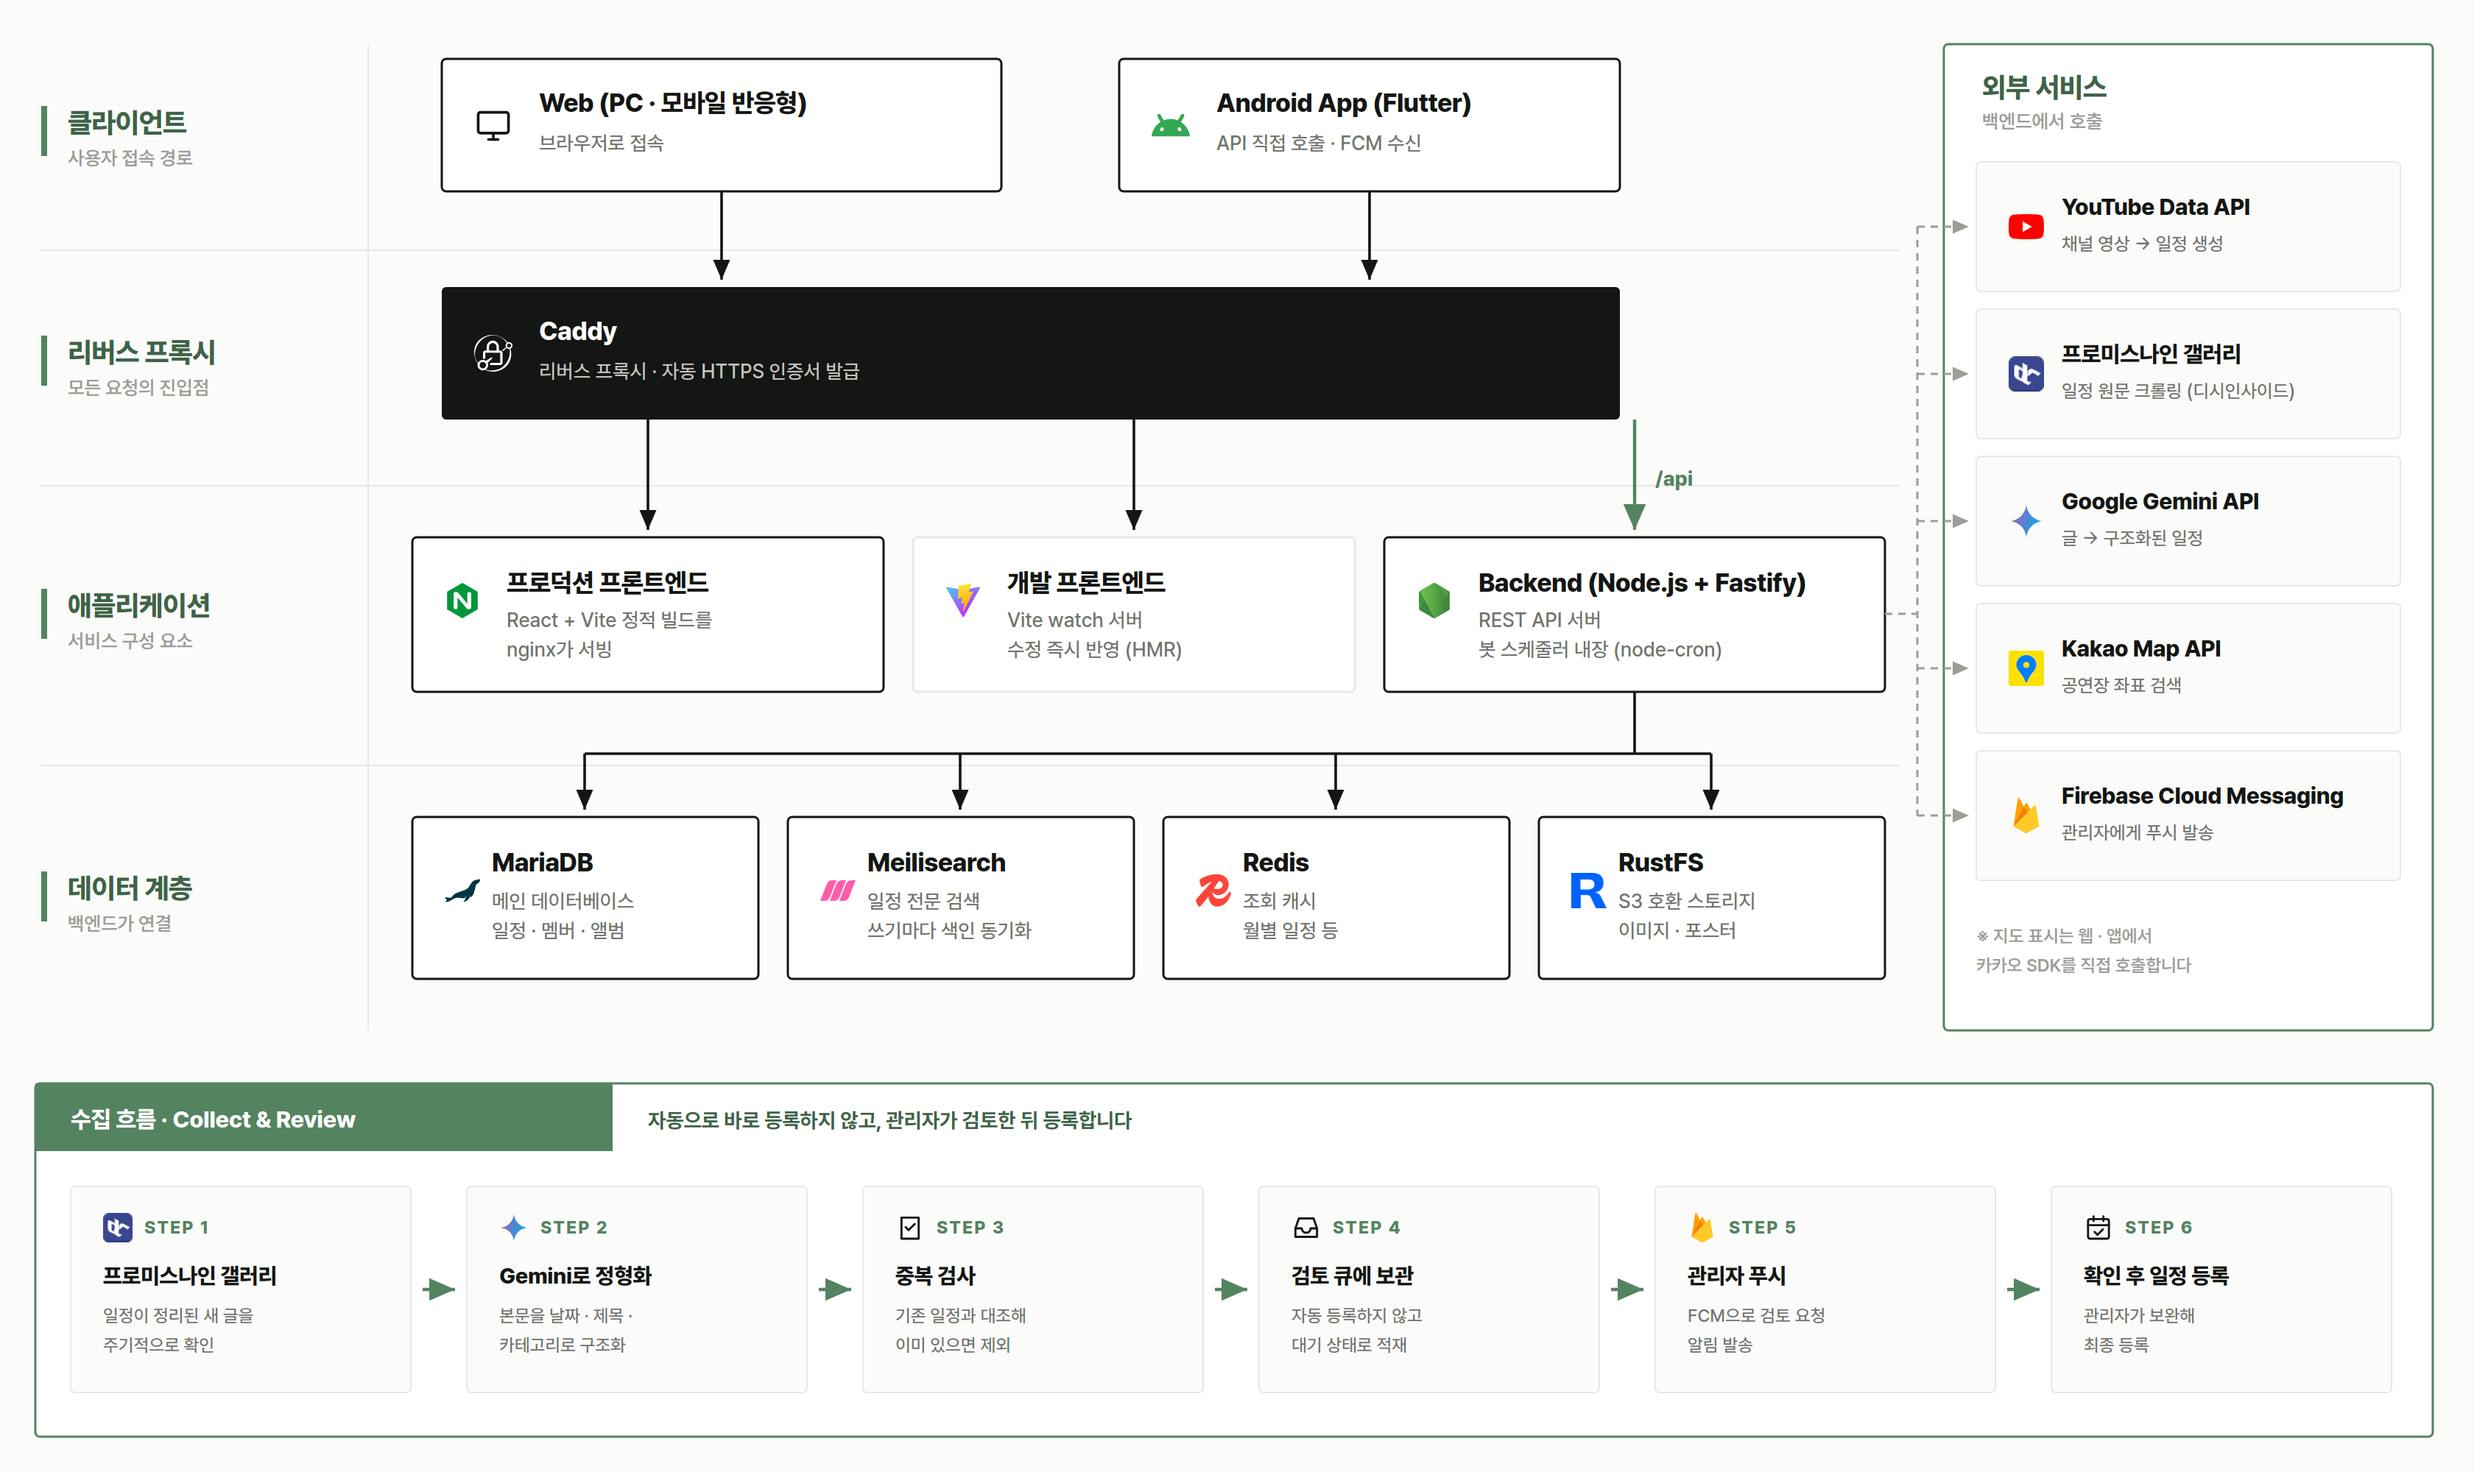
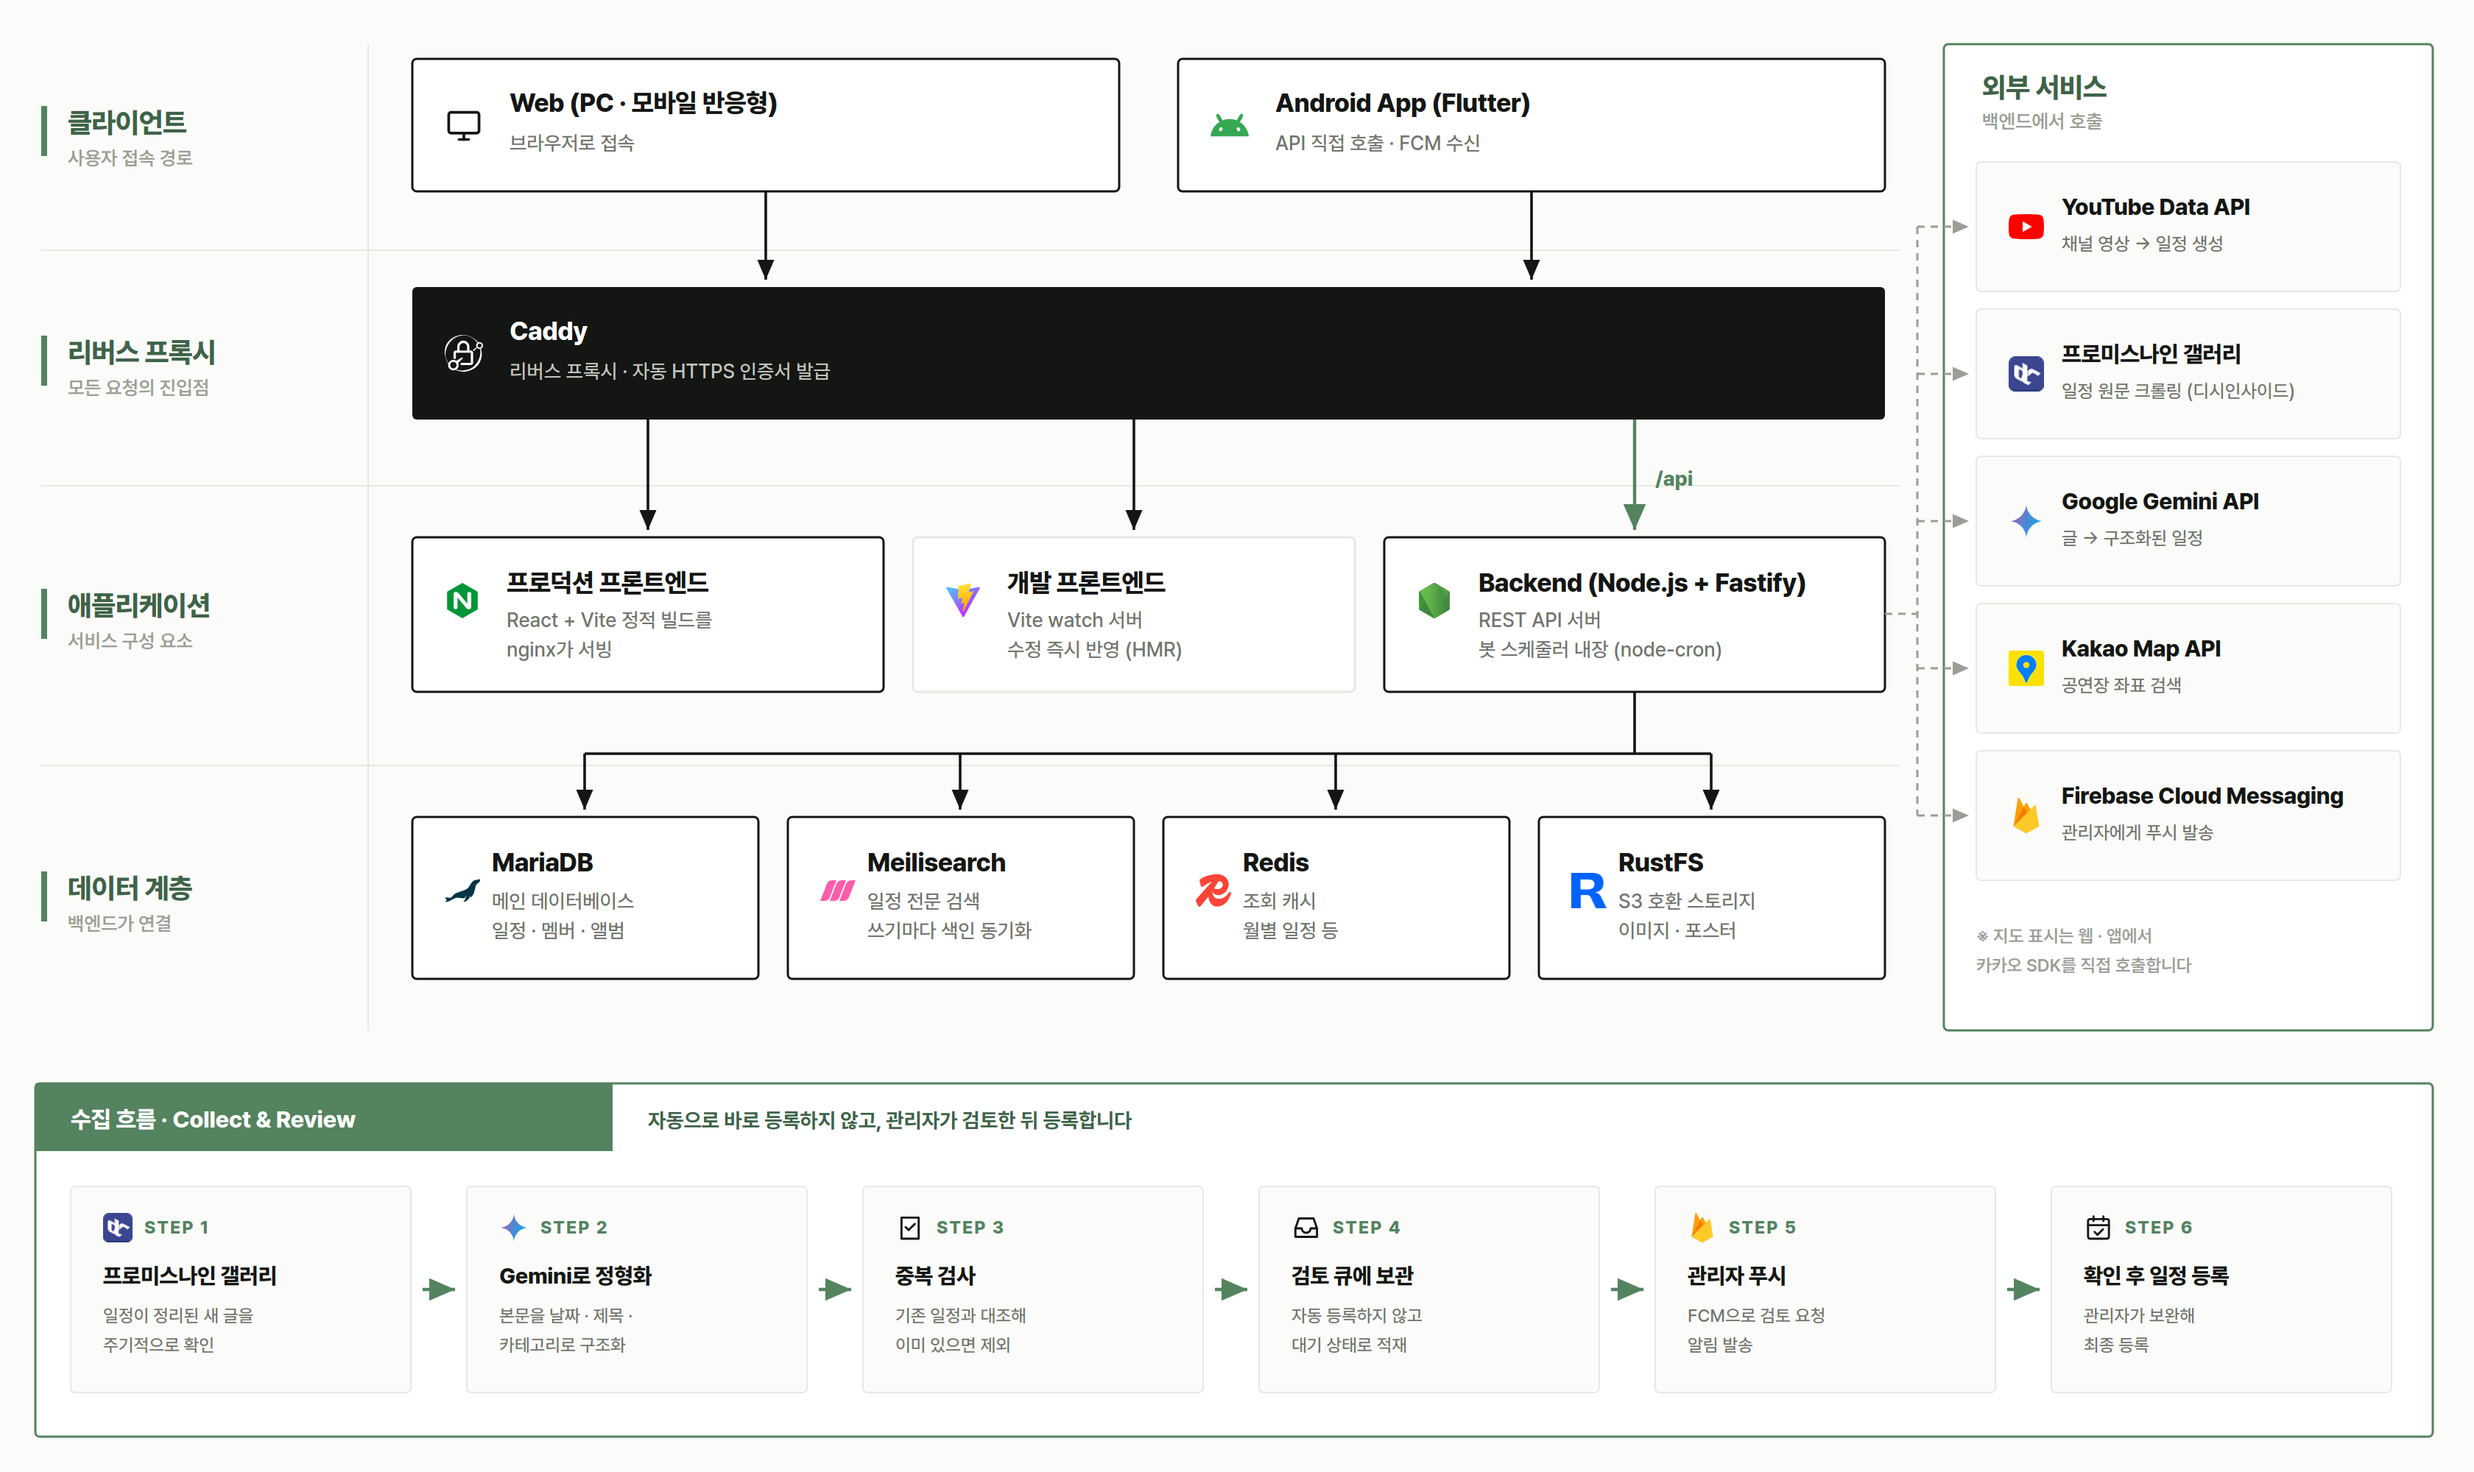
docs: 구조도 레이아웃 정렬 — 모든 밴드를 동일 그리드로
클라이언트·리버스 프록시 밴드가 애플리케이션·데이터 계층과 좌우 끝이 어긋나 있었고,
Caddy 박스가 짧아 /api 화살표가 박스 바깥 빈 공간에서 시작하던 문제.
전 밴드를 x 280~1280 그리드로 통일해 /api가 Caddy 내부에서 분기하도록 수정.

Claude-Session: https://claude.ai/code/session_011K1GDZufi9XzbNZSQFJ7js

diff --git a/docs/images/architecture.html b/docs/images/architecture.html
@@ -93,18 +93,18 @@
   <rect x="28" y="592" width="4" height="34" fill="#548360"/>
   <text class="band-label" x="46" y="610">데이터 계층</text>
   <text class="band-sub" x="46" y="632">백엔드가 연결</text>
-  <rect x="300" y="40" width="380" height="90" rx="3" fill="#fff" stroke="#141613" stroke-width="1.5"/>
-  <use href="#i-monitor" x="322" y="72" width="26" height="26"/>
-  <text class="box-t" x="366" y="76">Web (PC · 모바일 반응형)</text>
-  <text class="box-d" x="366" y="102">브라우저로 접속</text>
-  <rect x="760" y="40" width="340" height="90" rx="3" fill="#fff" stroke="#141613" stroke-width="1.5"/>
-  <use href="#b-android" x="782" y="72" width="26" height="26"/>
-  <text class="box-t" x="826" y="76">Android App (Flutter)</text>
-  <text class="box-d" x="826" y="102">API 직접 호출 · FCM 수신</text>
-  <rect x="300" y="195" width="800" height="90" rx="3" fill="#141613"/>
-  <use href="#b-caddy-w" x="322" y="227" width="26" height="26"/>
-  <text class="box-t" x="366" y="231" style="fill:#fff">Caddy</text>
-  <text class="box-d" x="366" y="257" style="fill:#C3C5BE">리버스 프록시 · 자동 HTTPS 인증서 발급</text>
+  <rect x="280" y="40" width="480" height="90" rx="3" fill="#fff" stroke="#141613" stroke-width="1.5"/>
+  <use href="#i-monitor" x="302" y="72" width="26" height="26"/>
+  <text class="box-t" x="346" y="76">Web (PC · 모바일 반응형)</text>
+  <text class="box-d" x="346" y="102">브라우저로 접속</text>
+  <rect x="800" y="40" width="480" height="90" rx="3" fill="#fff" stroke="#141613" stroke-width="1.5"/>
+  <use href="#b-android" x="822" y="72" width="26" height="26"/>
+  <text class="box-t" x="866" y="76">Android App (Flutter)</text>
+  <text class="box-d" x="866" y="102">API 직접 호출 · FCM 수신</text>
+  <rect x="280" y="195" width="1000" height="90" rx="3" fill="#141613"/>
+  <use href="#b-caddy-w" x="302" y="227" width="26" height="26"/>
+  <text class="box-t" x="346" y="231" style="fill:#fff">Caddy</text>
+  <text class="box-d" x="346" y="257" style="fill:#C3C5BE">리버스 프록시 · 자동 HTTPS 인증서 발급</text>
   <rect x="280" y="365" width="320" height="105" rx="3" fill="#fff" stroke="#141613" stroke-width="1.5"/>
   <use href="#b-nginx" x="302" y="396" width="24" height="24"/>
   <text class="box-t" x="344" y="402">프로덕션 프론트엔드</text>
@@ -140,8 +140,8 @@
   <text class="box-t" x="1099" y="592">RustFS</text>
   <text class="box-d" x="1099" y="617">S3 호환 스토리지</text>
   <text class="box-d" x="1099" y="637">이미지 · 포스터</text>
-  <path d="M490,130 L490,190" stroke="#141613" stroke-width="1.8" fill="none" marker-end="url(#ar)"/>
-  <path d="M930,130 L930,190" stroke="#141613" stroke-width="1.8" fill="none" marker-end="url(#ar)"/>
+  <path d="M520,130 L520,190" stroke="#141613" stroke-width="1.8" fill="none" marker-end="url(#ar)"/>
+  <path d="M1040,130 L1040,190" stroke="#141613" stroke-width="1.8" fill="none" marker-end="url(#ar)"/>
   <path d="M440,285 L440,360" stroke="#141613" stroke-width="1.8" fill="none" marker-end="url(#ar)"/>
   <path d="M770,285 L770,360" stroke="#141613" stroke-width="1.8" fill="none" marker-end="url(#ar)"/>
   <path d="M1110,285 L1110,360" stroke="#548360" stroke-width="2.2" fill="none" marker-end="url(#arg)"/>
